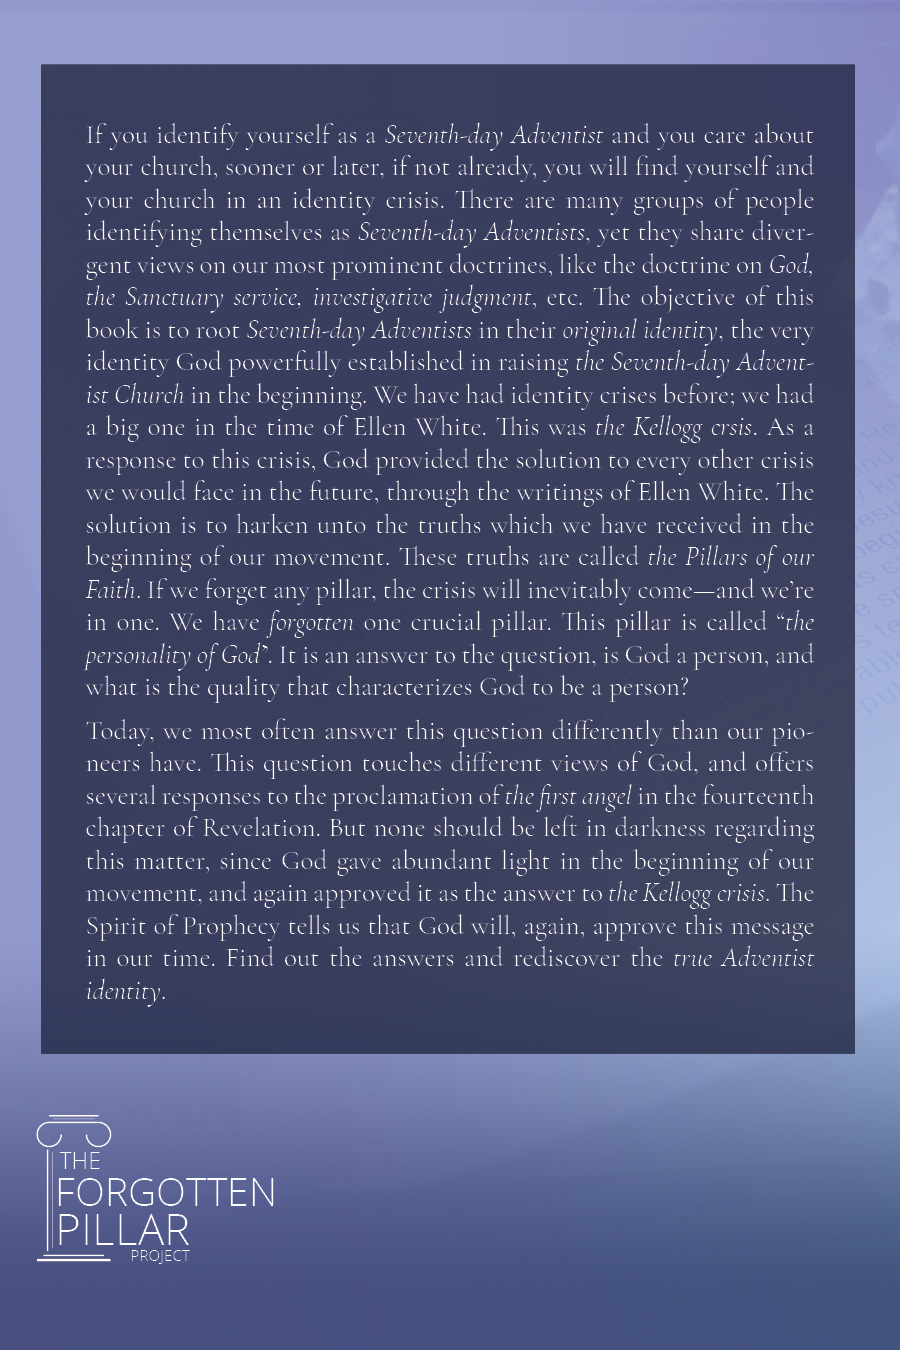
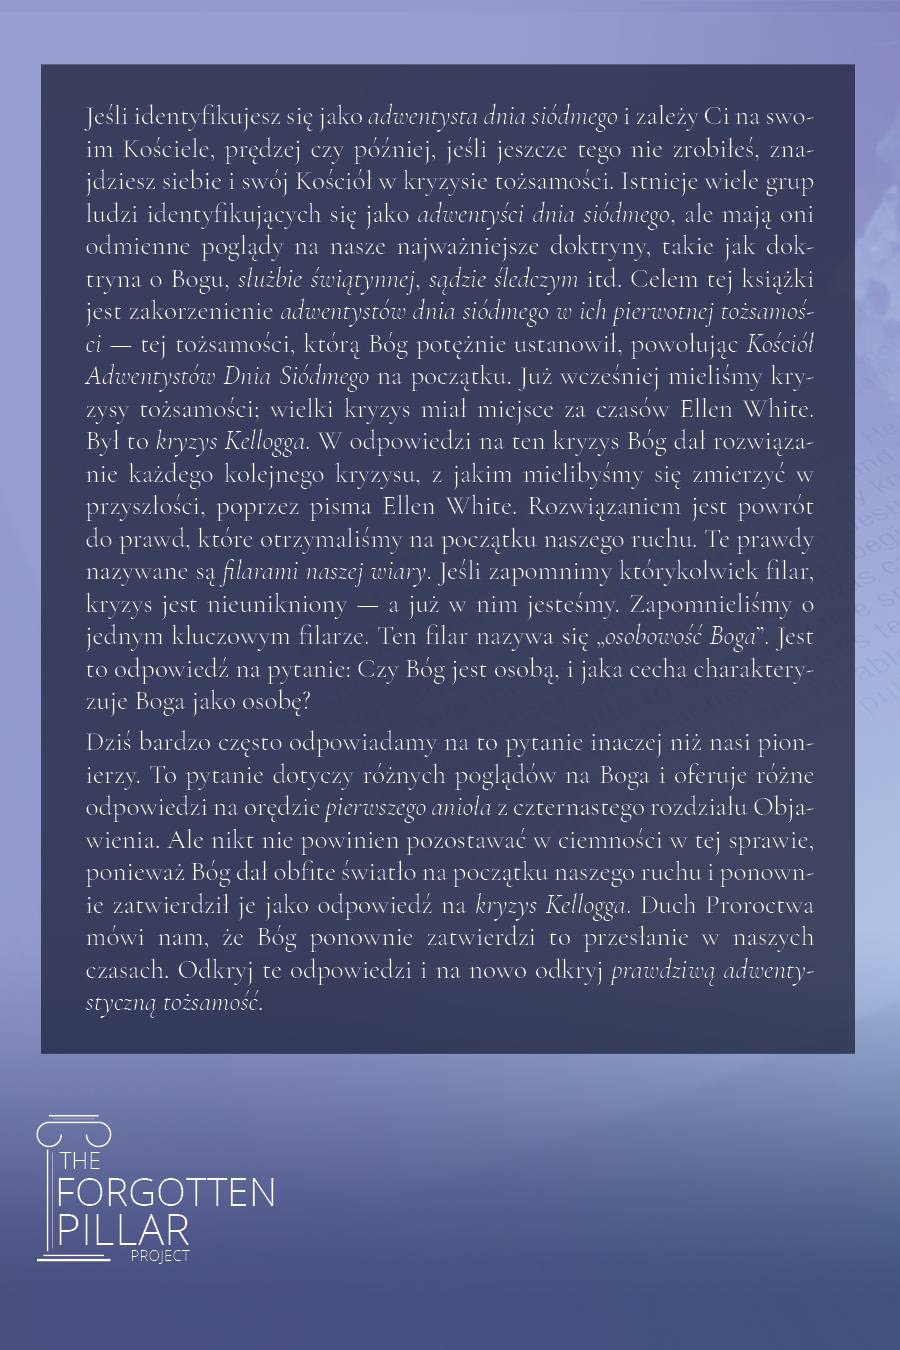
POLISH: finished the translation

Changed region(s): [[0.0933, 0.0622, 0.9022, 0.7467]]

diff --git a/lang/pl/frontmatter/general.tex b/lang/pl/frontmatter/general.tex
@@ -2,21 +2,22 @@
 \usepackage[polish]{babel}
 
 \newcommand{\booktitle}{Zapomniany Filar}
+\newcommand{\originaltitle}{The Forgotten Pillar}
 \newcommand{\subtitle}{Ponowne Odkrywanie Adwentystycznej Tożsamości}
-\newcommand{\publisher}{}
-\newcommand{\isbn}{}
+\newcommand{\publisher}{Fortbit d.o.o.}
+\newcommand{\isbn}{978-953-8484-04-9}
 \newcommand{\editor}{}
-\newcommand{\translatedby}{Damian Dzienniak, Hanna Gerlach}
-\newcommand{\publishingplace}{}
-\newcommand{\publishingyear}{}
+\newcommand{\translatedby}{Hanna Gerlach, Damian Dzienniak}
+\newcommand{\publishingplace}{Sveti Martin na Muri}
+\newcommand{\publishingyear}{2025}
 \newcommand{\publishingplacefirstedition}{}
 \newcommand{\publishingyearfirstedition}{}
 \newcommand{\isbnfirstedition}{}
-\newcommand{\poems}{}
+\newcommand{\poems}{Damian Dzienniak}
 
 
 \newcommand{\licensetext}{%
-  \emcap{License}: \ifepub\else\ccby{}\fi \href{https://creativecommons.org/licenses/by/4.0/}{Creative Common Attribution 4.0 International License}
+  \emcap{License}: \ifepub\else\ccby{}\fi  \href{https://creativecommons.org/licenses/by/4.0/}{Creative Common Attribution 4.0 International License}
 
   \textbf{Możesz:} \\
   \textbf{Dzielenie się} — kopiować i rozpowszechniać utwór w dowolnym medium i formacie, także w celach komercyjnych. \\

diff --git a/lang/sw/frontmatter/copyrightpage.tex b/lang/sw/frontmatter/copyrightpage.tex
@@ -6,6 +6,7 @@
 
 {\large \emcap{\booktitle}}
 
+\ifx\originaltitle\undefined\else\if\relax\detokenize\expandafter{\originaltitle}\relax\else{\emcap{Kichwa Cha Asili}: \textbf{\originaltitle{}}} \\ \fi\fi
 \emcap{Waandishi}: \textbf{\authorname} \\
 \ifx\editor\undefined\else\if\relax\detokenize\expandafter{\editor}\relax\else{\emcap{Asili}: \textbf{\editor{}}} \\ \fi\fi
 \ifx\translatedby\undefined\else\if\relax\detokenize\expandafter{\translatedby}\relax\else{\emcap{Imetafsiriwa na}: \textbf{\translatedby{}}} \\ \fi\fi

diff --git a/lang/pl/frontmatter/copyrightpage.tex b/lang/pl/frontmatter/copyrightpage.tex
@@ -6,6 +6,7 @@
 
 {\large \emcap{\booktitle}}
 
+\ifx\originaltitle\undefined\else\if\relax\detokenize\expandafter{\originaltitle}\relax\else{\emcap{Oryginalny tytuł}: \textbf{\originaltitle{}}} \\ \fi\fi
 \emcap{Autorzy}: \textbf{\authorname} \\
 \ifx\editor\undefined\else\if\relax\detokenize\expandafter{\editor}\relax\else{\emcap{Redaktor}: \textbf{\editor{}}} \\ \fi\fi
 \ifx\translatedby\undefined\else\if\relax\detokenize\expandafter{\translatedby}\relax\else{\emcap{Tłumaczenie}: \textbf{\translatedby{}}} \\ \fi\fi

diff --git a/lang/hr/frontmatter/copyrightpage.tex b/lang/hr/frontmatter/copyrightpage.tex
@@ -6,6 +6,7 @@
 
 {\large \emcap{\booktitle}}
 
+\ifx\originaltitle\undefined\else\if\relax\detokenize\expandafter{\originaltitle}\relax\else{\emcap{Originalni naslov}: \textbf{\originaltitle{}}} \\ \fi\fi
 \emcap{Autori}: \textbf{\authorname} \\
 \ifx\editor\undefined\else\if\relax\detokenize\expandafter{\editor}\relax\else{\emcap{Urednik}: \textbf{\editor{}}} \\ \fi\fi
 \ifx\translatedby\undefined\else\if\relax\detokenize\expandafter{\translatedby}\relax\else{\emcap{Prevoditelj}: \textbf{\translatedby{}}} \\ \fi\fi

diff --git a/lang/en/frontmatter/copyrightpage.tex b/lang/en/frontmatter/copyrightpage.tex
@@ -6,6 +6,7 @@
 
 {\large \emcap{\booktitle}}
 
+\ifx\originaltitle\undefined\else\if\relax\detokenize\expandafter{\originaltitle}\relax\else{\emcap{Original Title}: \textbf{\originaltitle{}}} \\ \fi\fi
 \emcap{Authors}: \textbf{\authorname} \\
 \ifx\editor\undefined\else\if\relax\detokenize\expandafter{\editor}\relax\else{\emcap{Editor}: \textbf{\editor{}}} \\ \fi\fi
 \ifx\translatedby\undefined\else\if\relax\detokenize\expandafter{\translatedby}\relax\else{\emcap{Translated by}: \textbf{\translatedby{}}} \\ \fi\fi

diff --git a/lang/hr/frontmatter/general.tex b/lang/hr/frontmatter/general.tex
@@ -3,6 +3,7 @@
 \usepackage[croatian]{babel}
 
 \newcommand{\booktitle}{Zaboravljeni Stup Vjere}
+\newcommand{\originaltitle}{The Forgotten Pillar - Rediscovering Adventist Identity}
 \newcommand{\subtitle}{Razotkrivanje Originalnog Adventističkog Identiteta}
 \newcommand{\publisher}{Fortbit d.o.o.}
 \newcommand{\isbn}{978-953-8484-03-2}

diff --git a/lang/en/frontmatter/general.tex b/lang/en/frontmatter/general.tex
@@ -1,6 +1,7 @@
 \usepackage[english]{babel}
 
 \newcommand{\booktitle}{The Forgotten Pillar}
+% \newcommand{\originaltitle}{The Forgotten Pillar - Rediscovering Adventist Identity}
 \newcommand{\subtitle}{Rediscovering Adventist Identity}
 \newcommand{\publisher}{Fortbit d.o.o.}
 \newcommand{\isbn}{978-953-8484-02-5} 

diff --git a/lang/sw/frontmatter/general.tex b/lang/sw/frontmatter/general.tex
@@ -1,6 +1,7 @@
 \usepackage[english]{babel}
 
 \newcommand{\booktitle}{Nguzo Iliyosahaulika}
+\newcommand{\originaltitle}{The Forgotten Pillar - Rediscovering Adventist Identity}
 \newcommand{\subtitle}{Ugunduzi wa sifa bainifu ya Waadventista}
 \newcommand{\publisher}{Fortbit d.o.o.}
 \newcommand{\isbn}{} 
